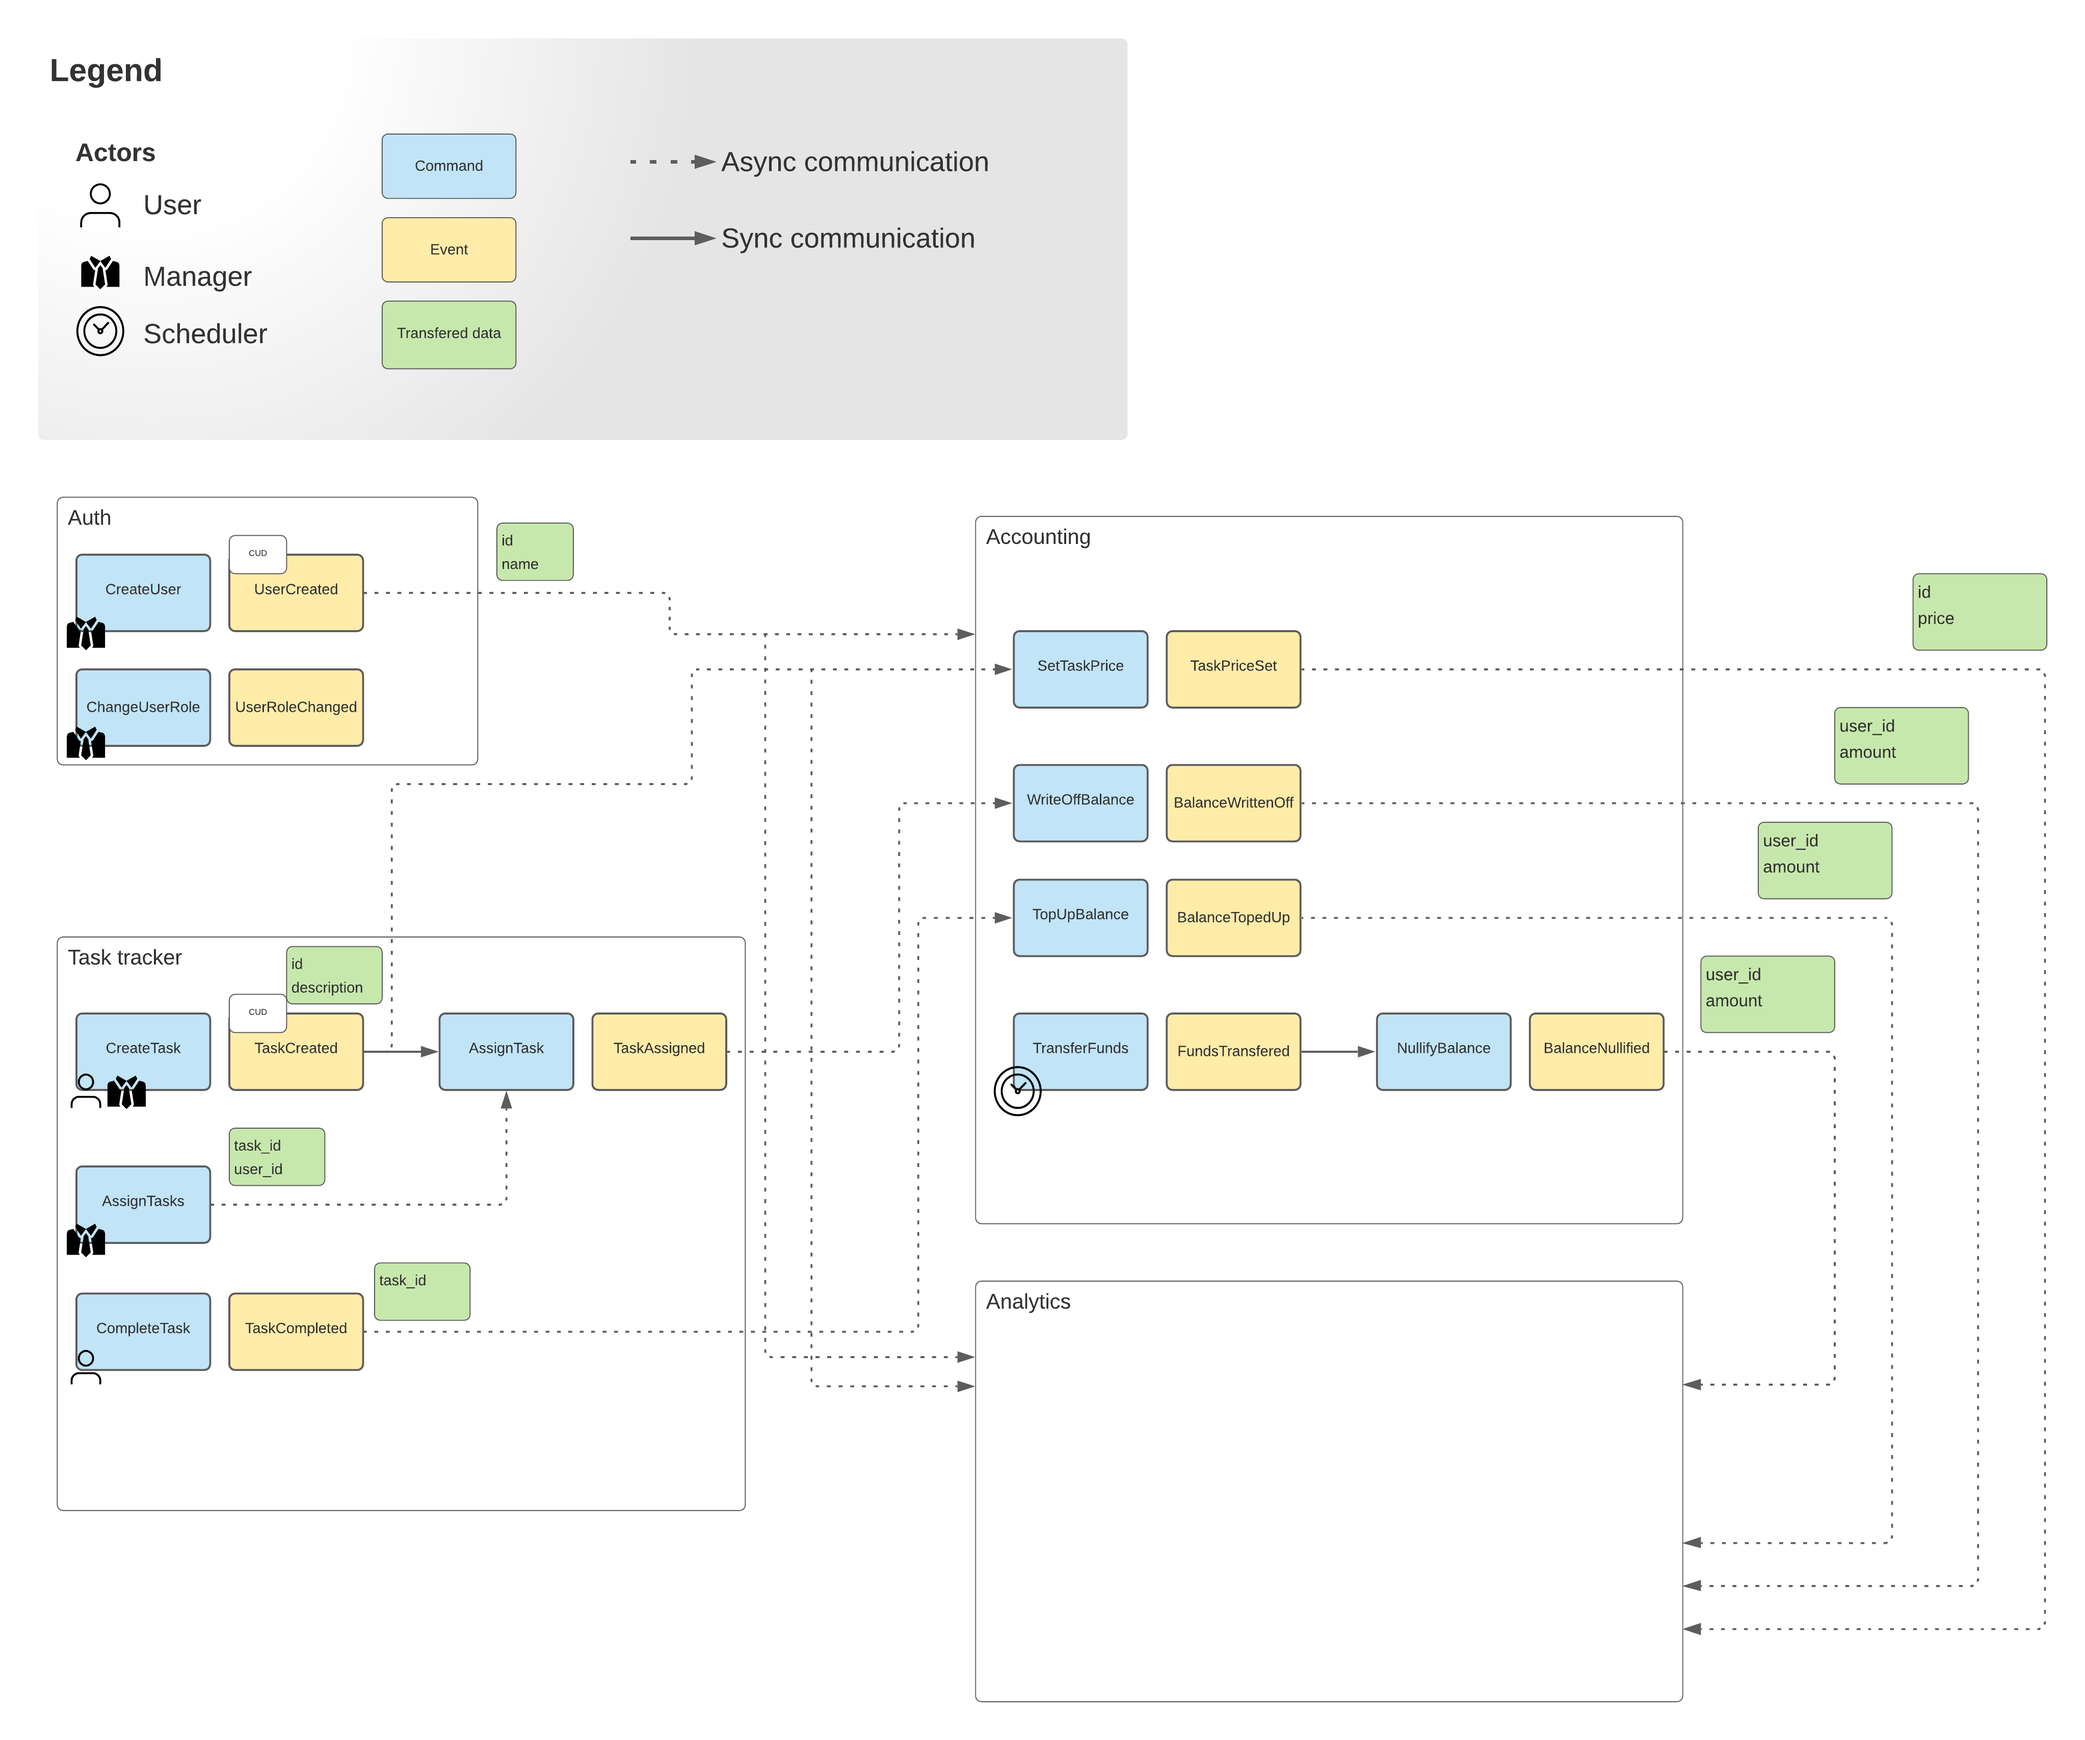
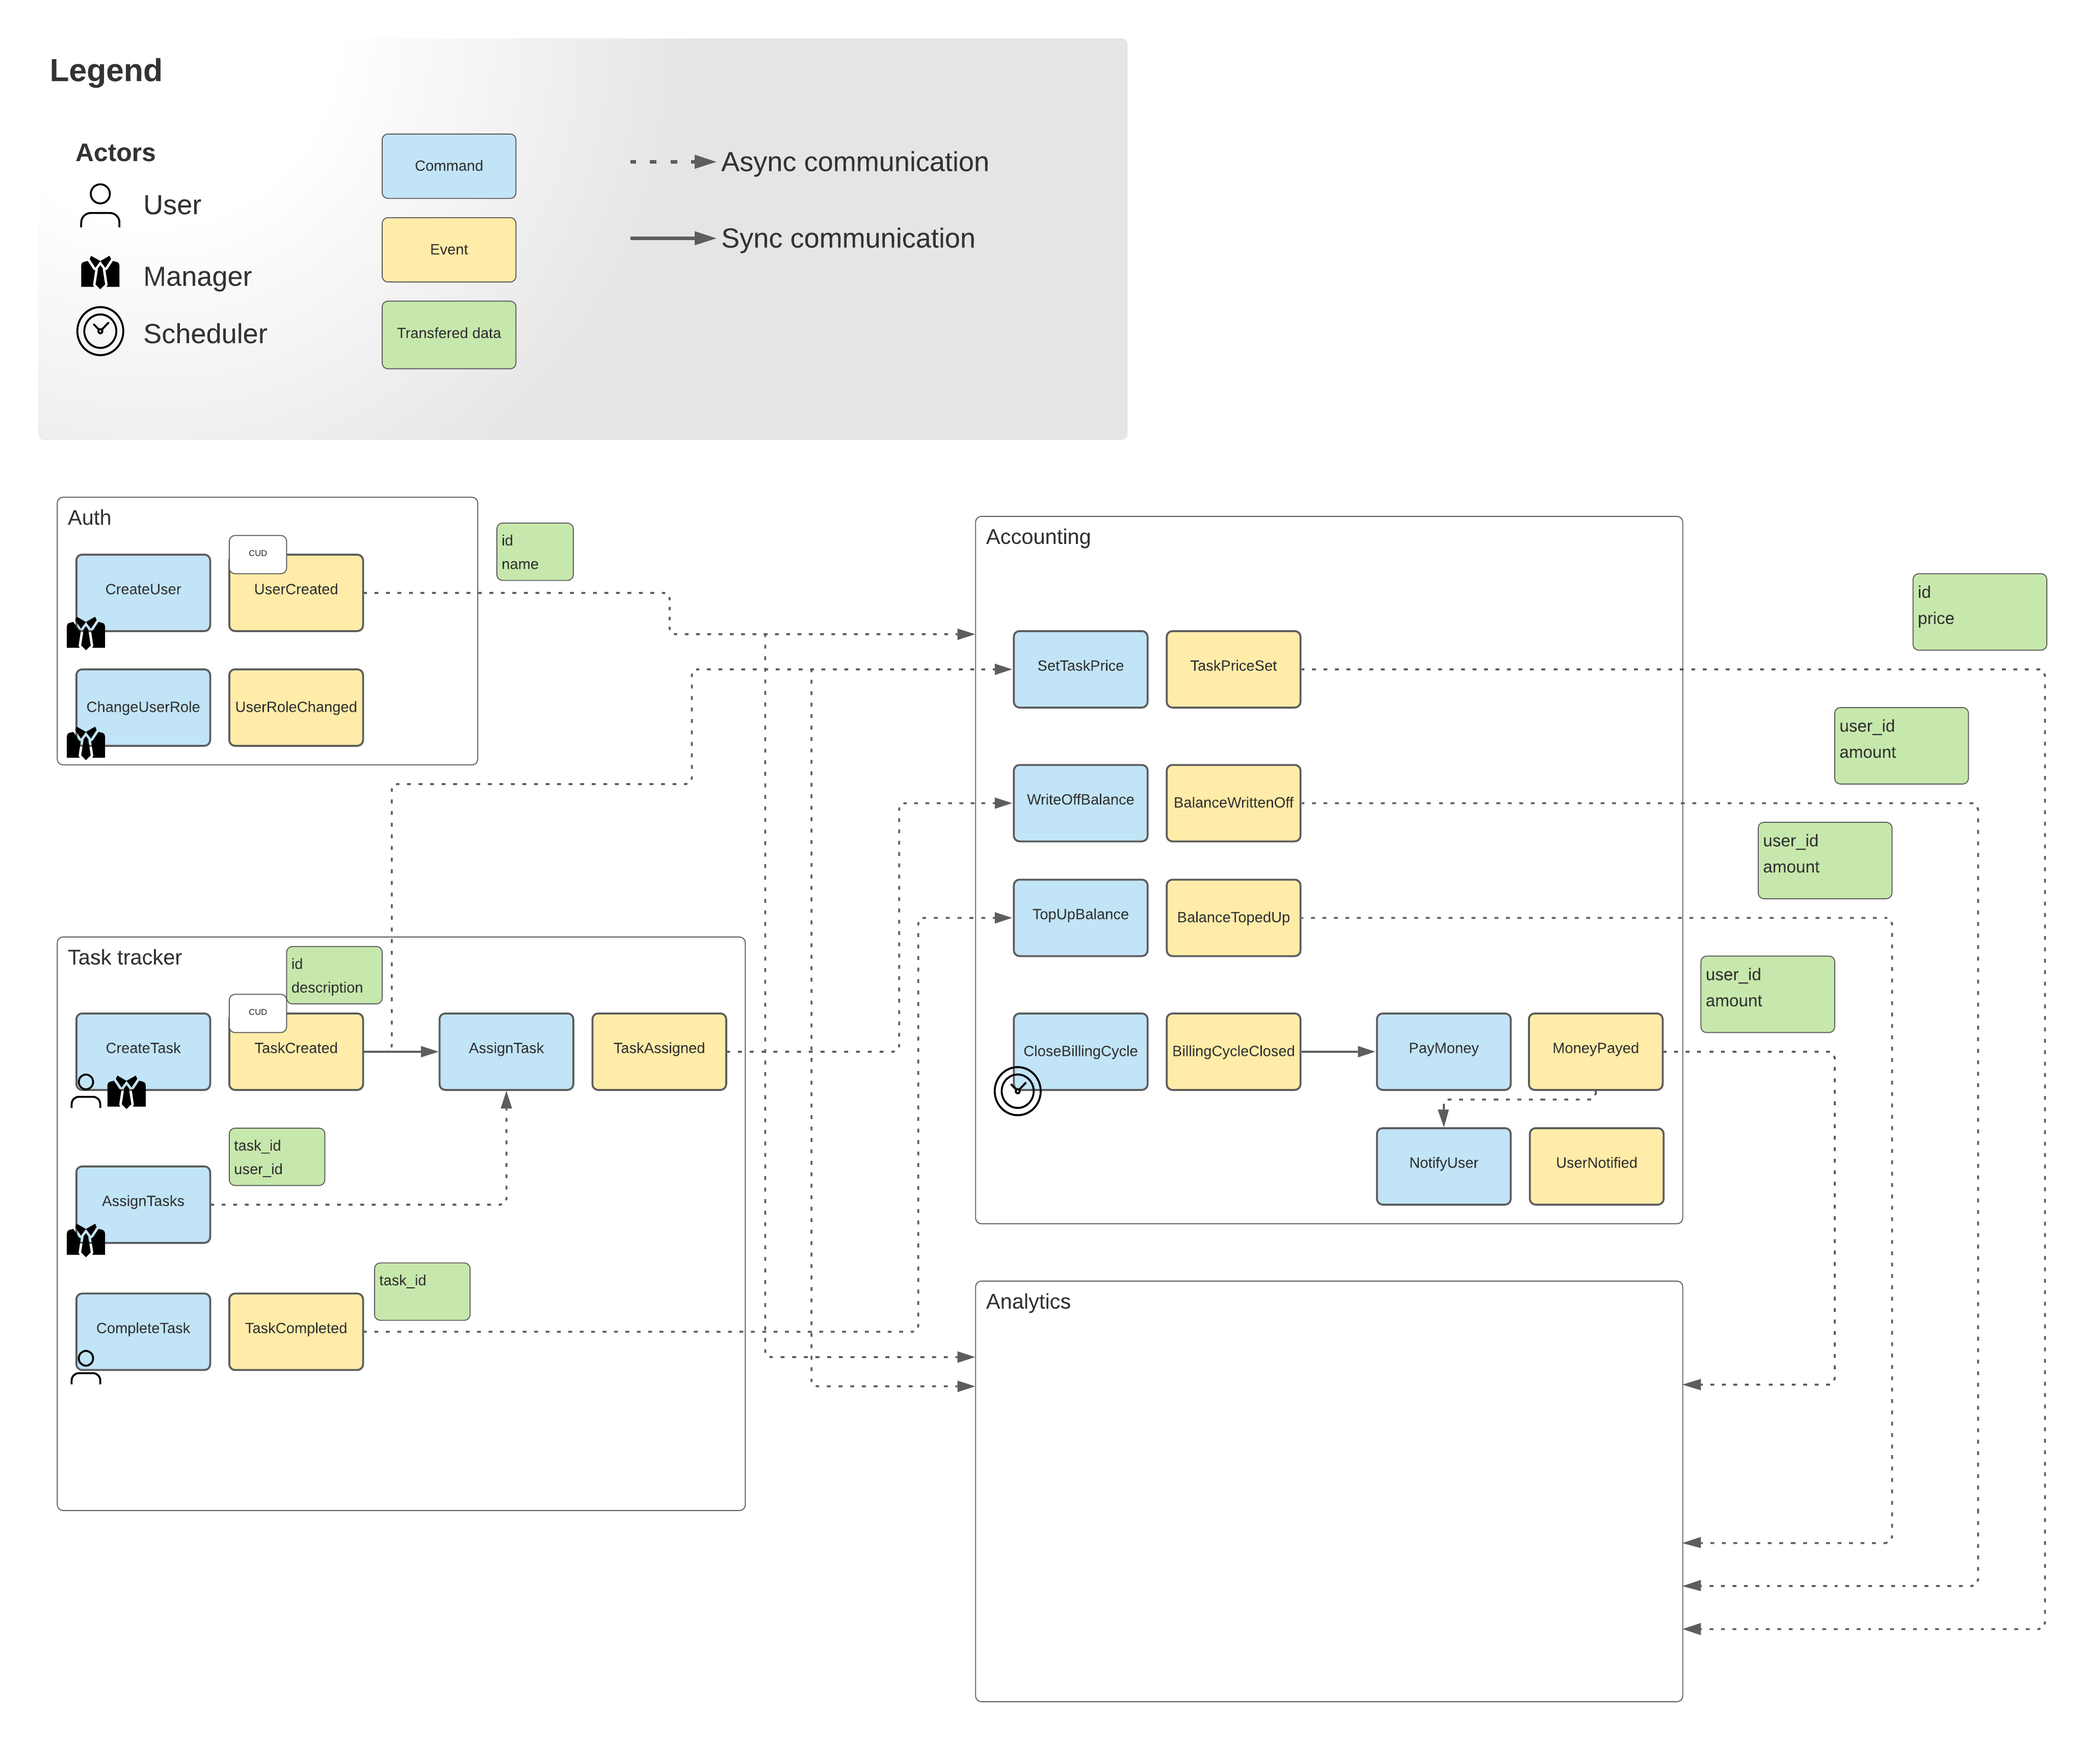
Update accounting events

Changed region(s): [[0.6519, 0.5901, 0.8071, 0.7143], [0.5898, 0.5901, 0.6209, 0.6212], [0.4967, 0.5901, 0.5277, 0.6212]]

diff --git a/Actors.Commands.Events.Queries.md b/Actors.Commands.Events.Queries.md
@@ -24,12 +24,20 @@
 
 #### Task tracker
 * Новые таски может создавать кто угодно
-    * Actor
-        * User
-    * Command
-        * CreateTask
-    * Event
+    * 1
+      * Actor
+          * User
+      * Command
+          * CreateTask
+      * Event
+          * TaskCreated
+    * 2
+      * Actor
         * TaskCreated
+      * Command
+          * AssignTask
+      * Event
+          * TaskAssigned
 * Должны иметь кнопку «заассайнить задачи», которая возьмёт все открытые задачи и рандомно заассайнит каждую на любого из сотрудников
     * Actor
         * Manager/Admin
@@ -68,19 +76,27 @@
     * Query
         * GetTasksSumForToday
 * в конце дня отправлять на почту сумму выплаты
+  * 1
+      * Actor
+          * Accounting Scheduler
+      * Command
+          * CloseBillingCycle
+      * Event
+          * BillingCycleClosed
+  * 2 
     * Actor
-        * Accounting Scheduler
+        * BillingCycleClosed
     * Command
-        * TransferFunds
+        * PayMoney
     * Event
-        * FundsTransfered
-* обнулить баланс за день (если он не отрицательный)
-    * Actor
-        * Accounting
-    * Command
-        * NullifyBalance
-    * Event
-        * BalanceNullified
+        * MoneyPayed
+  * 3
+      * Actor
+          * MoneyPayed
+      * Command
+          * NotifyUser
+      * Event
+          * UserNotified
 
 #### Аналитика
 * показать сколько заработал топ-менеджмент за сегодня
